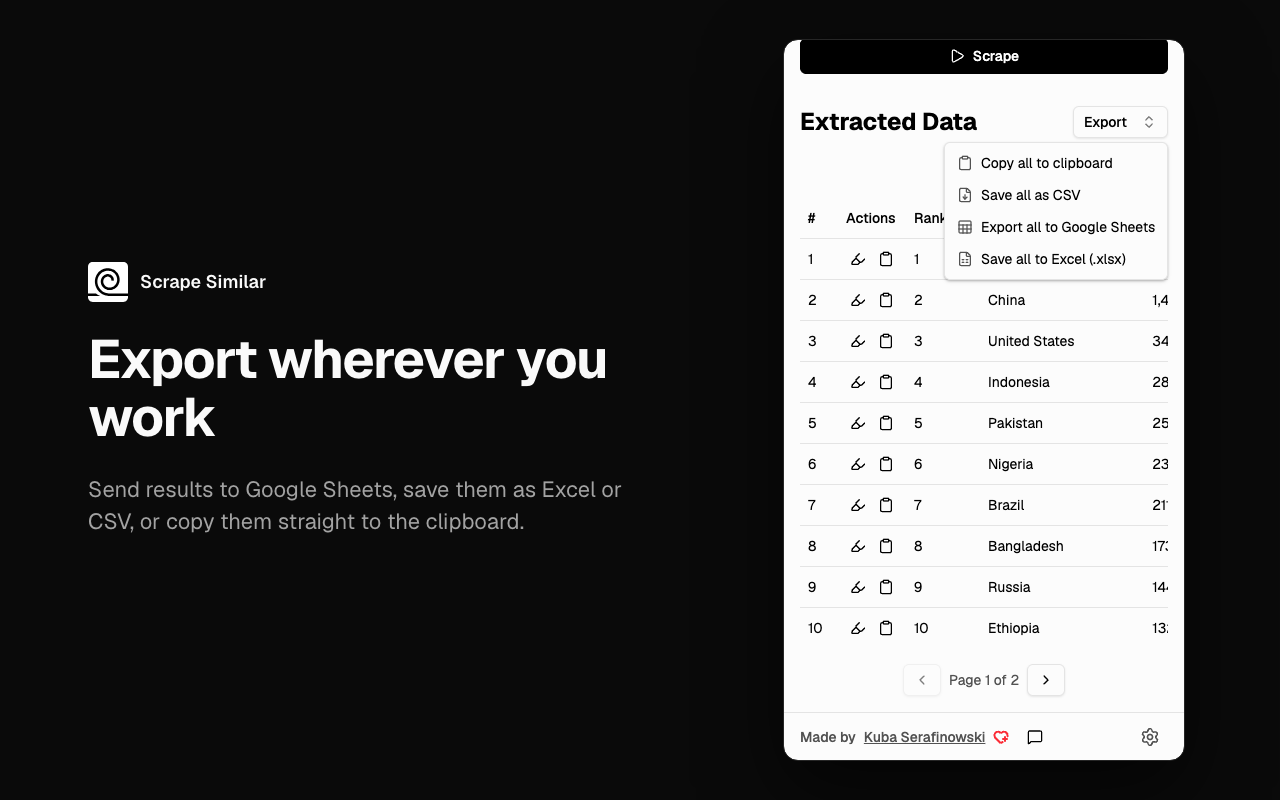
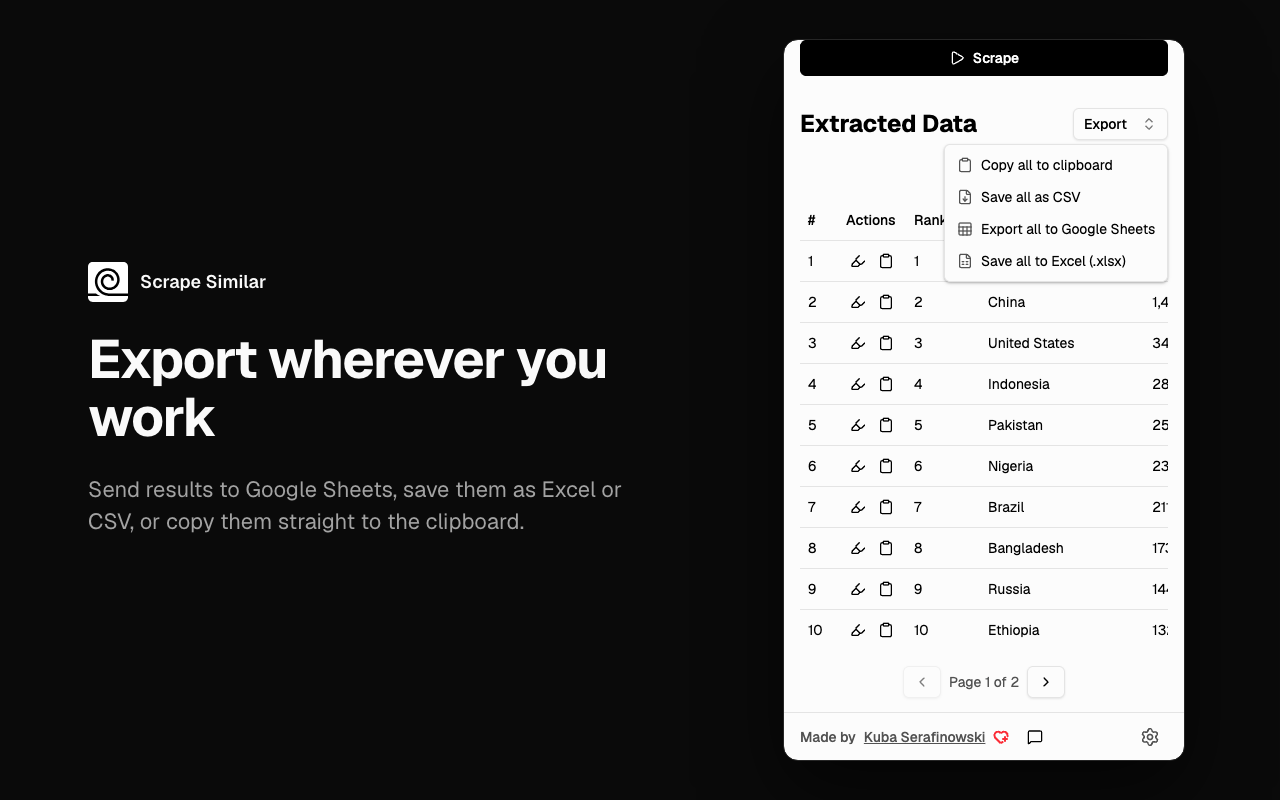
fix(store-assets): start the export capture on a whole element
At 720px the side panel cannot scroll the "Extracted Data" heading to
the top, and pin() accepted wherever scrolling stopped, so the export
image opened halfway through the Scrape button. pin() now fails when
the target does not reach its position, and the export capture pins
the Scrape button, which can reach the top.

diff --git a/tests/e2e/store-assets/store-assets.spec.ts b/tests/e2e/store-assets/store-assets.spec.ts
@@ -77,25 +77,37 @@ const expectGeistLoaded = (page: Page) =>
 
 /**
  * Scrolls `target` to the top, or with `block: 'end'` to just above the sticky
- * footer, and waits until it stays there: the side panel smooth-scrolls its
- * results into view on its own, which can land after a single scroll call.
+ * footer, waits until it stays there (the side panel smooth-scrolls its results
+ * into view on its own, which can land after a single scroll call), and fails
+ * if the container could not scroll far enough to put it there.
  */
 const pin = async (target: Locator, block: 'start' | 'end') => {
-  let previousTop: number | undefined
+  let previous: string | undefined
+  let placement = { top: 0, bottom: 0, footerTop: 0 }
   await expect
     .poll(async () => {
-      const top = await target.evaluate(async (element, block) => {
-        const footer = document.querySelector('[data-slot="footer"]')
-        element.style.scrollMarginBottom = `${footer?.getBoundingClientRect().height ?? 0}px`
+      placement = await target.evaluate(async (element, block) => {
+        const footerHeight =
+          document.querySelector('[data-slot="footer"]')?.getBoundingClientRect().height ?? 0
+        element.style.scrollMarginBottom = `${footerHeight}px`
         element.scrollIntoView({ block, behavior: 'instant' })
         await new Promise((resolve) => requestAnimationFrame(() => requestAnimationFrame(resolve)))
-        return element.getBoundingClientRect().top
+        const { top, bottom } = element.getBoundingClientRect()
+        return { top, bottom, footerTop: window.innerHeight - footerHeight }
       }, block)
-      const isSettled = top === previousTop
-      previousTop = top
+      const current = JSON.stringify(placement)
+      const isSettled = current === previous
+      previous = current
       return isSettled
     })
     .toBe(true)
+  if (block === 'start') {
+    expect(placement.top, 'pinned element did not reach the top').toBe(0)
+  } else {
+    expect(placement.bottom, 'pinned element is under the footer').toBeLessThanOrEqual(
+      placement.footerTop,
+    )
+  }
 }
 
 /**
@@ -216,7 +228,9 @@ test('store assets', async ({ browser, context, serviceWorker, openSidePanel }, 
 
   // Export menu.
   await sidePanel.setViewportSize(SIDE_SHOT_SIZE)
-  await pin(extractedData, 'start')
+  // At this height the heading cannot reach the top, so the frame starts at the
+  // Scrape button above it instead of cutting through it.
+  await pin(sidePanel.getByRole('button', { name: /^scrape$/i }), 'start')
   await sidePanel.getByRole('button', { name: /^export$/i }).click()
   await expect(sidePanel.getByRole('menuitem', { name: /google sheets/i })).toBeVisible()
   await parkPointer(sidePanel)
